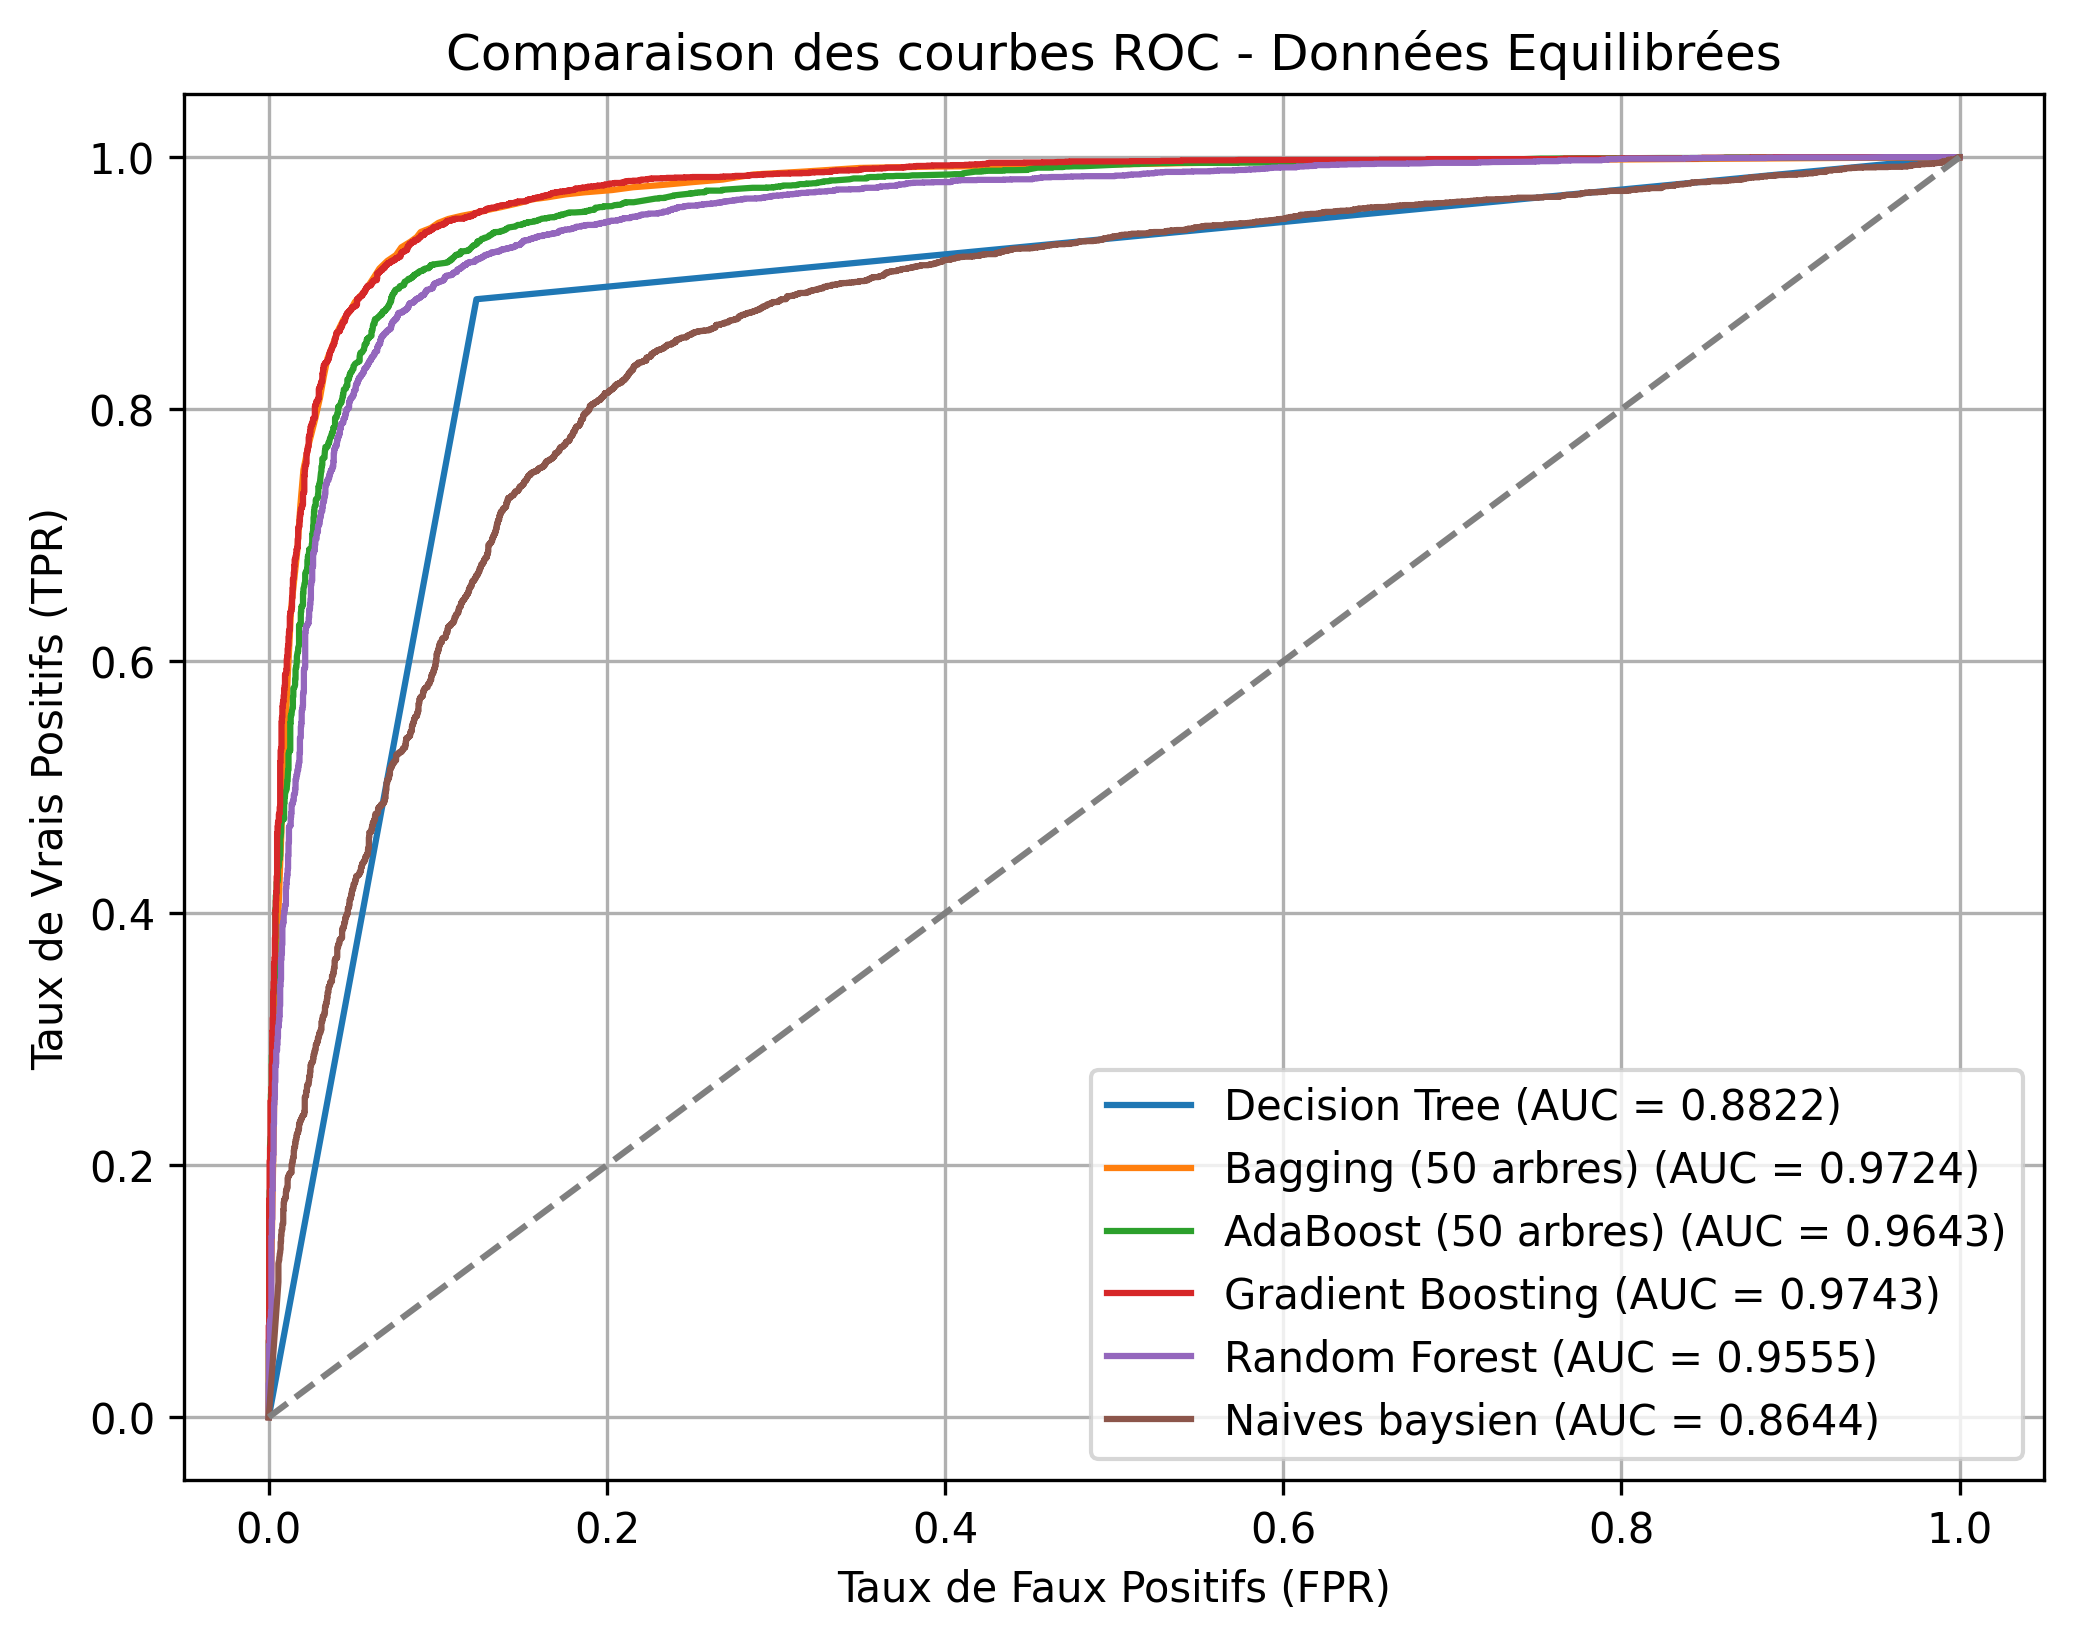
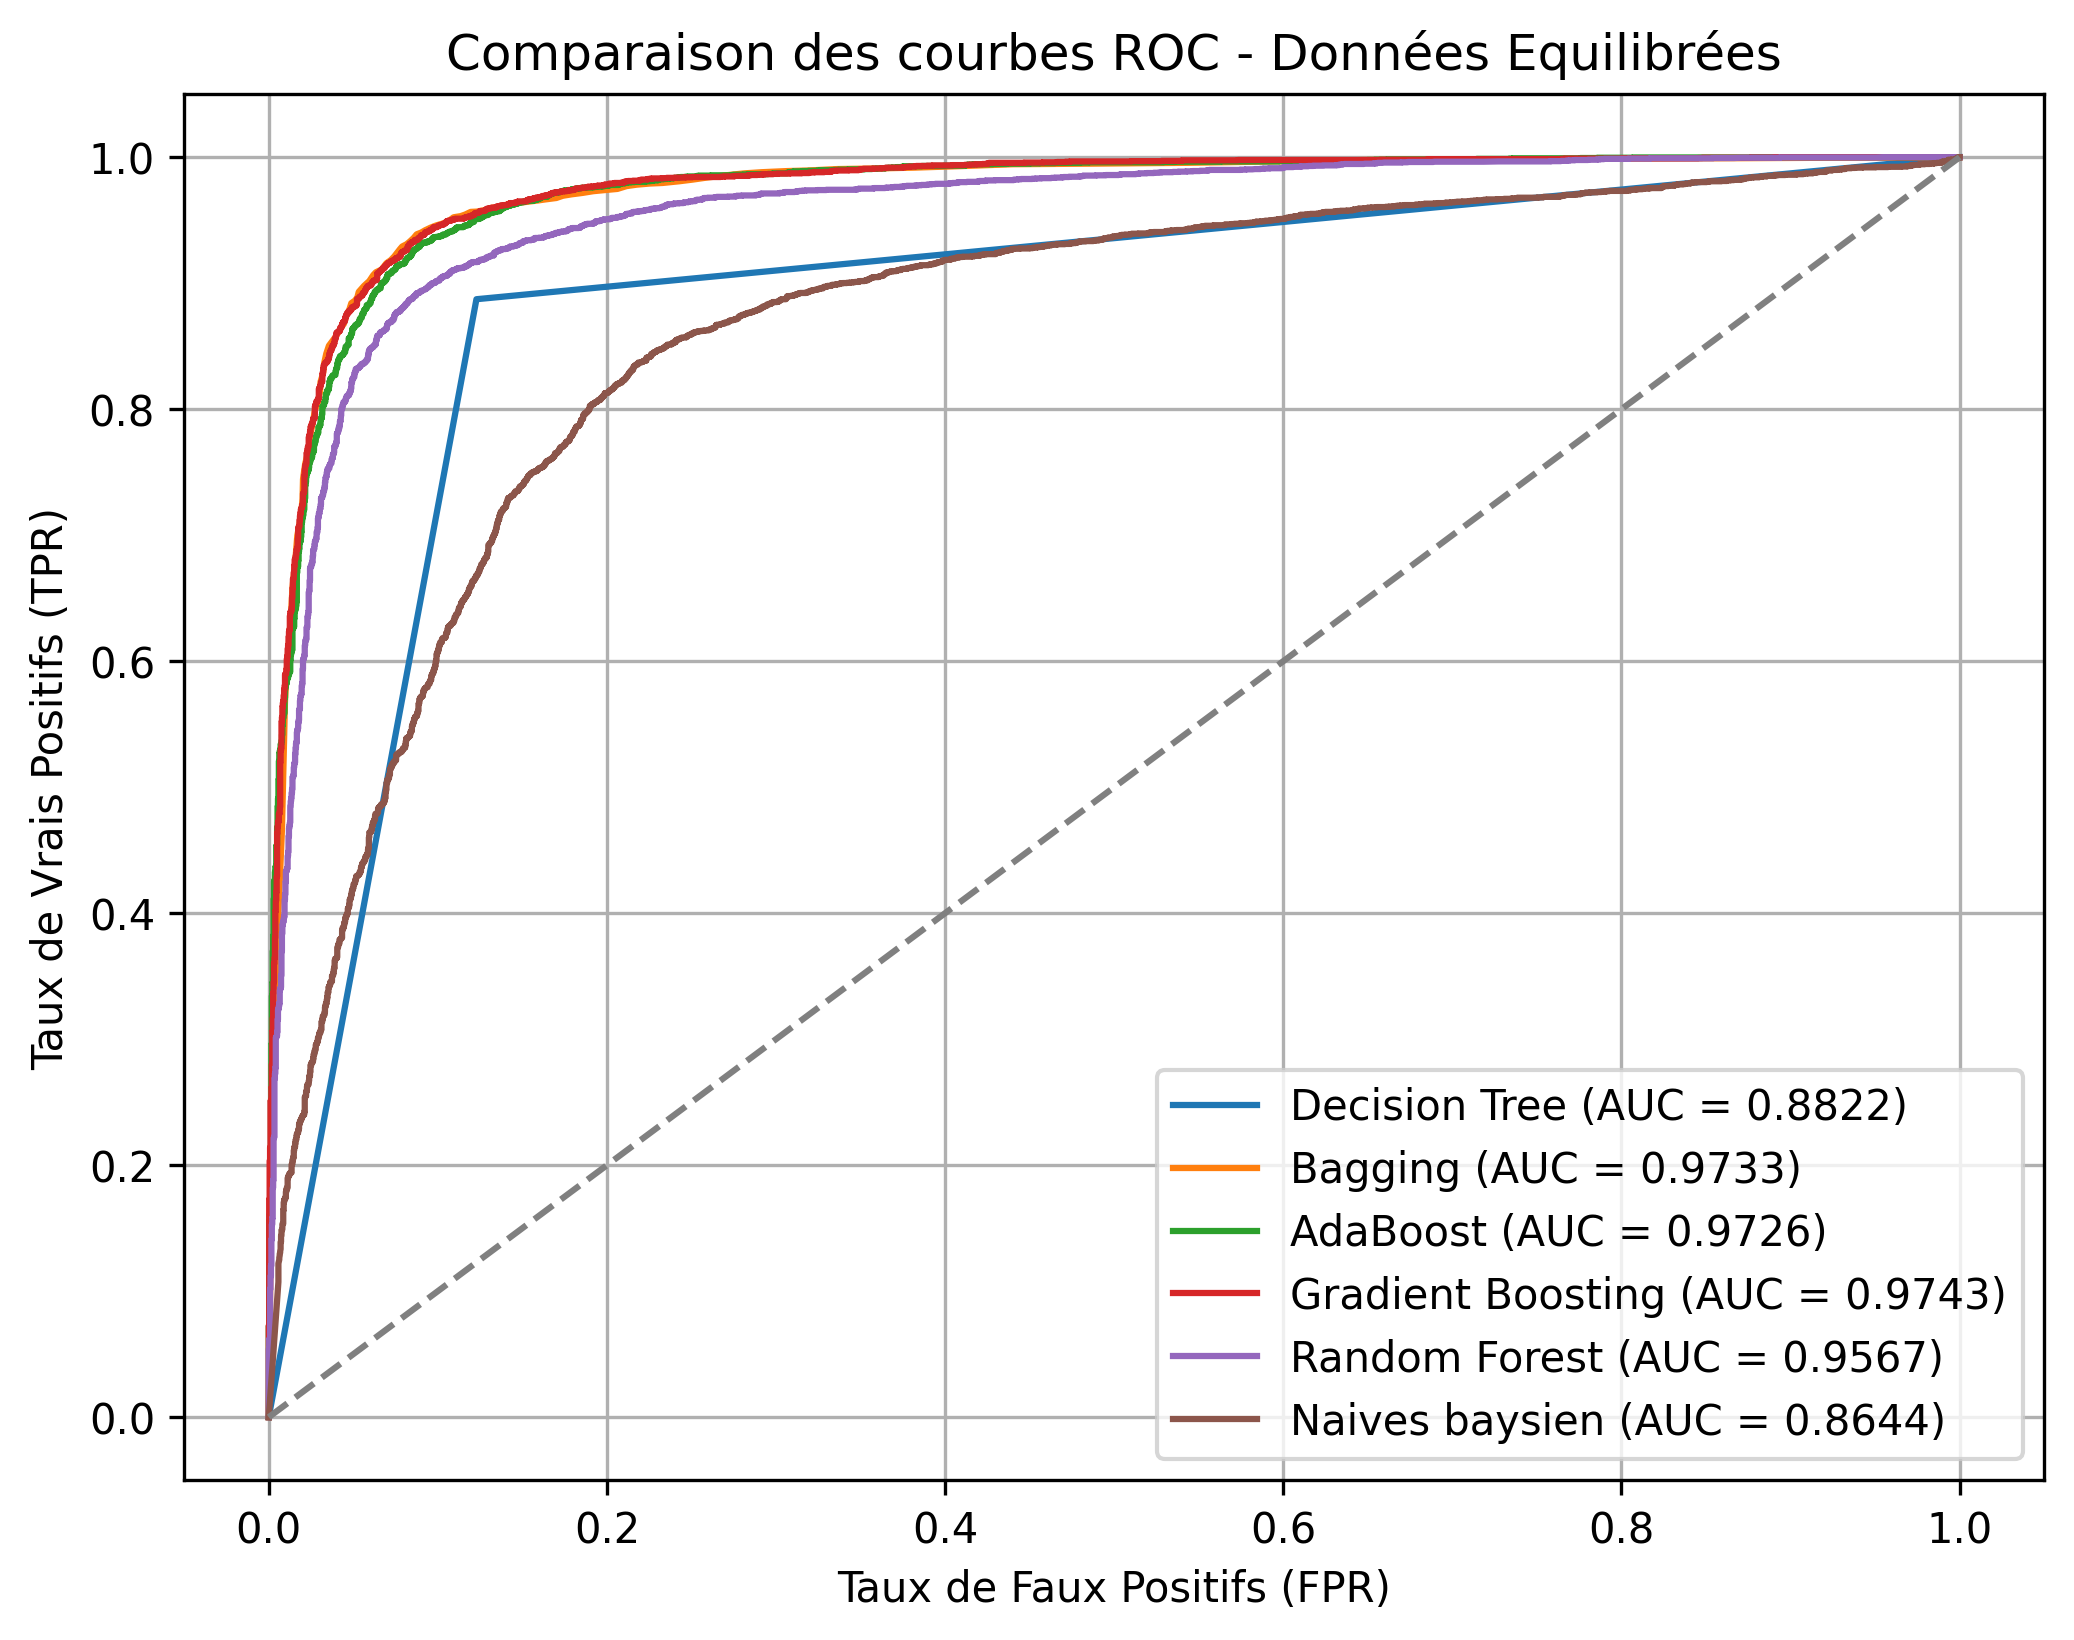
test et entrainement

Changed region(s): [[0.5246, 0.653, 0.9566, 0.9018], [0.1234, 0.0933, 0.5554, 0.5287]]

diff --git a/config.py b/config.py
@@ -6,19 +6,19 @@ from sklearn.naive_bayes import GaussianNB
 #Donnees Equilibrees
 models = {
         "Decision Tree": DecisionTreeClassifier(random_state=42),
-        "Bagging (50 arbres)": BaggingClassifier(estimator=DecisionTreeClassifier(),
-                                                  n_estimators=50, random_state=42),
-        "AdaBoost (50 arbres)": AdaBoostClassifier(estimator=DecisionTreeClassifier(max_depth=1),
-                                                    n_estimators=50, learning_rate=1.0, algorithm="SAMME",random_state=42),
+        "Bagging": BaggingClassifier(estimator=DecisionTreeClassifier(),
+                                                  n_estimators=100, random_state=42),
+        "AdaBoost": AdaBoostClassifier(estimator=DecisionTreeClassifier(max_depth=3),
+                                                    n_estimators=100, learning_rate=1.0, algorithm="SAMME",random_state=42),
         "Gradient Boosting": GradientBoostingClassifier(n_estimators=100, learning_rate=0.1, max_depth=3),
         "Random Forest": RandomForestClassifier(n_estimators=100, max_depth=3),
         "Naives baysien":  GaussianNB() }
 
 models_unbalance = {
         "Decision Tree": DecisionTreeClassifier(random_state=42),
-        "Bagging (50 arbres)": BaggingClassifier(estimator=DecisionTreeClassifier(),
+        "Bagging": BaggingClassifier(estimator=DecisionTreeClassifier(),
                                                   n_estimators=50, random_state=42),
-        "AdaBoost (50 arbres)": AdaBoostClassifier(estimator=DecisionTreeClassifier(max_depth=1),
+        "AdaBoost": AdaBoostClassifier(estimator=DecisionTreeClassifier(max_depth=1),
                                                     n_estimators=50, learning_rate=1.0, algorithm="SAMME",random_state=42),
         "Gradient Boosting": GradientBoostingClassifier(n_estimators=100, learning_rate=0.1, max_depth=3),
         "Random Forest": RandomForestClassifier(n_estimators=100, max_depth=3),

diff --git a/comparison_all_algorithms.py b/comparison_all_algorithms.py
@@ -12,7 +12,6 @@ from sklearn.metrics import (
 
 
 
-
 def all_algorithme(models, train_file,test_file, result_file,title,result_folder="resultats/"):
 
 
@@ -30,8 +29,6 @@ def all_algorithme(models, train_file,test_file, result_file,title,result_folder
     y_test = df_test["Classe"]
 
    
-        
-
     # 4. Entraîner et évaluer chaque modèle
     results = []
     plt.figure(figsize=(8, 6))  # Préparer une figure pour la courbe ROC
